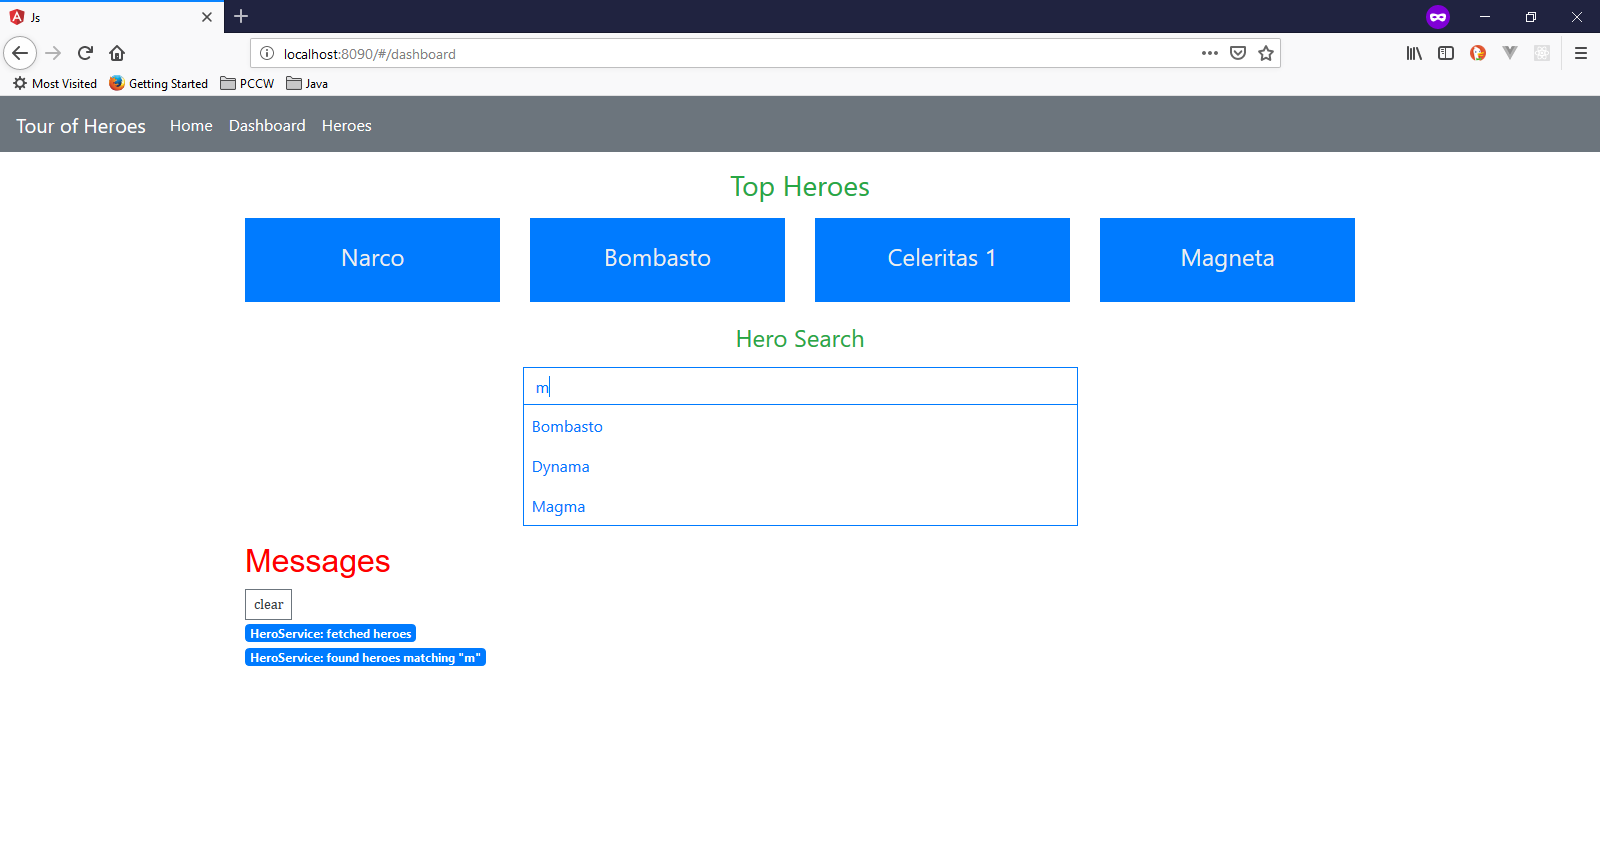
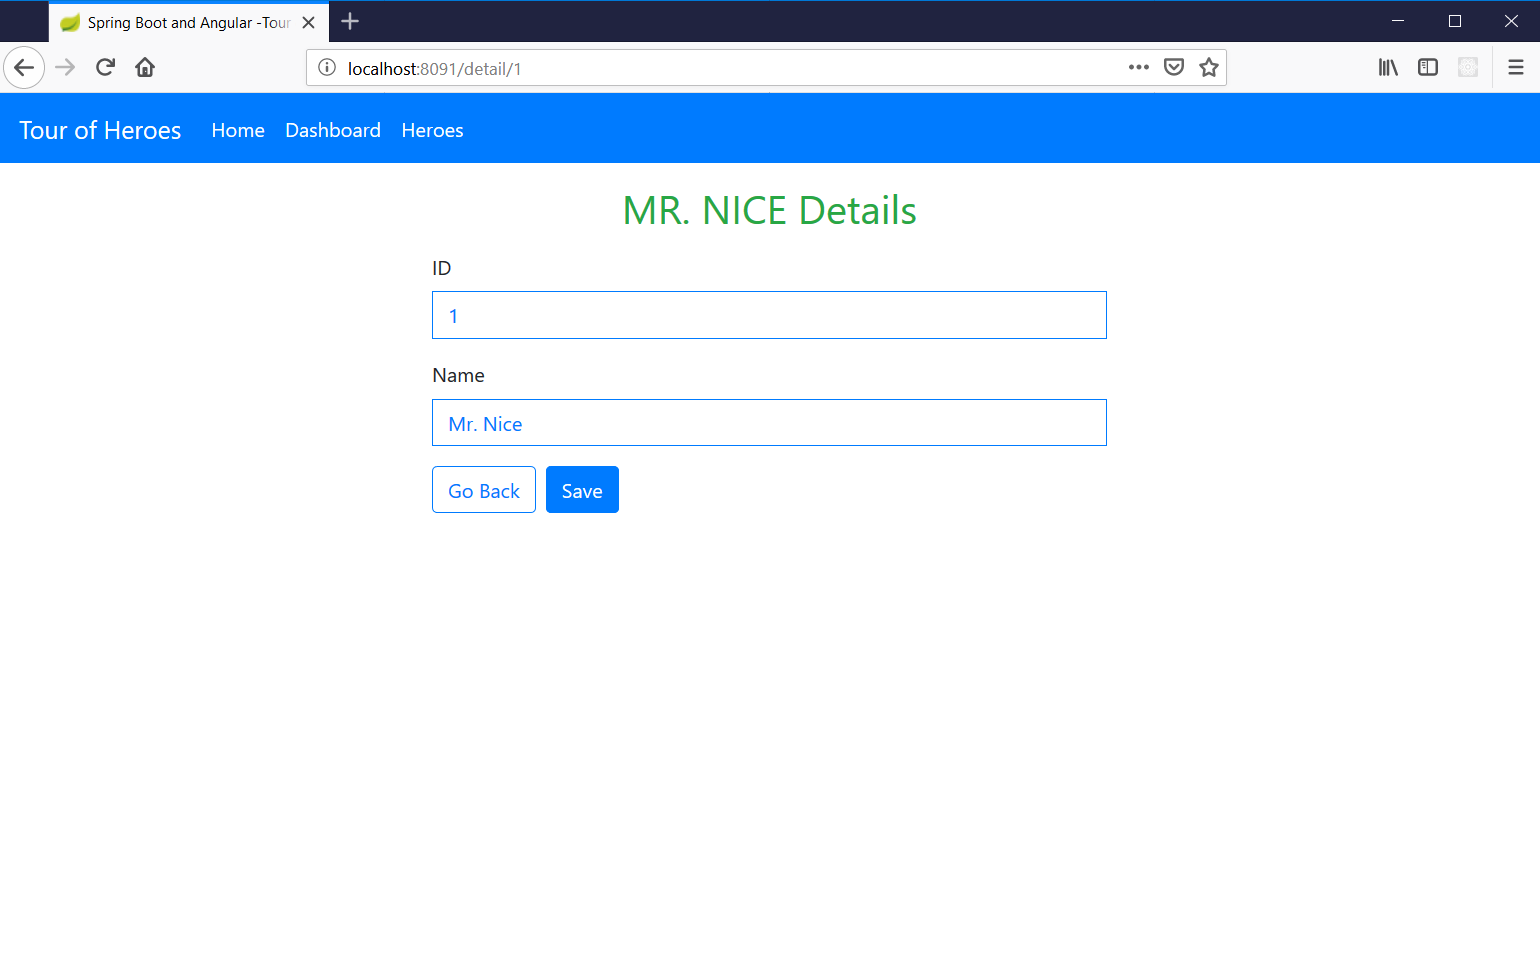
Finished.

diff --git a/src/main/js/src/app/navbar/navbar.component.html b/src/main/js/src/app/navbar/navbar.component.html
@@ -1,0 +1,37 @@
+<nav class="navbar navbar-expand-lg bg-primary">
+  <a class="navbar-brand text-white" routerLink="/">{{ title }}</a>
+  <button
+    class="navbar-toggler"
+    type="button"
+    data-toggle="collapse"
+    data-target="#navbarNav"
+    aria-controls="navbarNav"
+    aria-expanded="false"
+    aria-label="Toggle navigation"
+  >
+    <span class="navbar-toggler-icon"></span>
+  </button>
+  <div class="collapse navbar-collapse" id="navbarNav">
+    <ul class="navbar-nav">
+      <li
+        class="nav-item"
+        routerLinkActive="active"
+        [routerLinkActiveOptions]="{ exact: true }"
+      >
+        <a class="nav-link text-white" routerLink="/"
+          >Home <span class="sr-only">(current)</span></a
+        >
+      </li>
+      <li
+        class="nav-item"
+        routerLinkActive="active"
+        [routerLinkActiveOptions]="{ exact: true }"
+      >
+        <a class="nav-link text-white" routerLink="/dashboard">Dashboard</a>
+      </li>
+      <li class="nav-item" routerLinkActive="active">
+        <a class="nav-link text-white" routerLink="/heroes">Heroes</a>
+      </li>
+    </ul>
+  </div>
+</nav>

diff --git a/src/main/js/src/app/app.component.html b/src/main/js/src/app/app.component.html
@@ -1,32 +1,4 @@
-<nav class="navbar navbar-expand-lg bg-secondary">
-  <a class="navbar-brand text-white" routerLink="/">{{ title }}</a>
-  <button
-    class="navbar-toggler"
-    type="button"
-    data-toggle="collapse"
-    data-target="#navbarNav"
-    aria-controls="navbarNav"
-    aria-expanded="false"
-    aria-label="Toggle navigation"
-  >
-    <span class="navbar-toggler-icon"></span>
-  </button>
-  <div class="collapse navbar-collapse" id="navbarNav">
-    <ul class="navbar-nav">
-      <li class="nav-item active">
-        <a class="nav-link text-white" routerLink="/"
-          >Home <span class="sr-only">(current)</span></a
-        >
-      </li>
-      <li class="nav-item">
-        <a class="nav-link text-white" routerLink="/dashboard">Dashboard</a>
-      </li>
-      <li class="nav-item">
-        <a class="nav-link text-white" routerLink="/heroes">Heroes</a>
-      </li>
-    </ul>
-  </div>
-</nav>
+<app-navbar></app-navbar>
 <div class="container">
   <router-outlet></router-outlet>
 </div>

diff --git a/src/main/js/src/app/app.module.ts b/src/main/js/src/app/app.module.ts
@@ -13,6 +13,7 @@ import { DashboardComponent } from "./dashboard/dashboard.component";
 import { HeroDetailComponent } from "./hero-detail/hero-detail.component";
 import { HeroesComponent } from "./heroes/heroes.component";
 import { HeroSearchComponent } from "./hero-search/hero-search.component";
+import { NavbarComponent } from './navbar/navbar.component';
 
 @NgModule({
   imports: [
@@ -33,7 +34,8 @@ import { HeroSearchComponent } from "./hero-search/hero-search.component";
     DashboardComponent,
     HeroesComponent,
     HeroDetailComponent,
-    HeroSearchComponent
+    HeroSearchComponent,
+    NavbarComponent
   ],
   providers: [],
   bootstrap: [AppComponent]

diff --git a/src/main/js/src/app/navbar/navbar.component.spec.ts b/src/main/js/src/app/navbar/navbar.component.spec.ts
@@ -1,0 +1,25 @@
+import { async, ComponentFixture, TestBed } from '@angular/core/testing';
+
+import { NavbarComponent } from './navbar.component';
+
+describe('NavbarComponent', () => {
+  let component: NavbarComponent;
+  let fixture: ComponentFixture<NavbarComponent>;
+
+  beforeEach(async(() => {
+    TestBed.configureTestingModule({
+      declarations: [ NavbarComponent ]
+    })
+    .compileComponents();
+  }));
+
+  beforeEach(() => {
+    fixture = TestBed.createComponent(NavbarComponent);
+    component = fixture.componentInstance;
+    fixture.detectChanges();
+  });
+
+  it('should create', () => {
+    expect(component).toBeTruthy();
+  });
+});

diff --git a/src/main/js/src/app/navbar/navbar.component.ts b/src/main/js/src/app/navbar/navbar.component.ts
@@ -1,0 +1,14 @@
+import { Component, OnInit } from "@angular/core";
+import { RouterModule } from "@angular/router";
+
+@Component({
+  selector: "app-navbar",
+  templateUrl: "./navbar.component.html",
+  styleUrls: ["./navbar.component.scss"]
+})
+export class NavbarComponent implements OnInit {
+  title = "Tour of Heroes";
+  constructor() {}
+
+  ngOnInit() {}
+}

diff --git a/src/main/js/src/app/dashboard/dashboard.component.css b/src/main/js/src/app/dashboard/dashboard.component.css
@@ -4,6 +4,14 @@ a {
   text-decoration: none;
 }
 
+a:hover {
+  text-decoration: none !important;
+}
+
+a:hover .hero h4 {
+  color: #007bff !important;
+}
+
 .hero {
   max-height: 120px;
   min-width: 120px;
@@ -15,8 +23,4 @@ a {
 
 .hero h4 {
   color: #eee;
-}
-
-a:hover .hero h4 {
-  color: #007bff !important;
 }

diff --git a/src/main/js/src/app/heroes/heroes.component.css b/src/main/js/src/app/heroes/heroes.component.css
@@ -31,14 +31,14 @@
   line-height: 1em;
   left: -1px;
   top: -5px;
-  height: 2.3rem;
+  height: 2.4rem;
   min-width: 16px;
   margin-right: 0.8em;
   border-radius: 4px 0 0 4px;
 }
 
 button.delete {
-  top: -38px;
+  top: -39px;
   height: 1.8rem;
   line-height: 0.5;
 }

diff --git a/src/main/js/src/app/app.component.ts b/src/main/js/src/app/app.component.ts
@@ -5,6 +5,4 @@ import { Component } from "@angular/core";
   templateUrl: "./app.component.html",
   styleUrls: ["./app.component.scss"]
 })
-export class AppComponent {
-  title = "Tour of Heroes";
-}
+export class AppComponent {}

diff --git a/src/main/js/src/app/navbar/navbar.component.scss b/src/main/js/src/app/navbar/navbar.component.scss
@@ -1,0 +1,3 @@
+.navbar-nav .nav-item.active a {
+  color: #000000 !important;
+}
